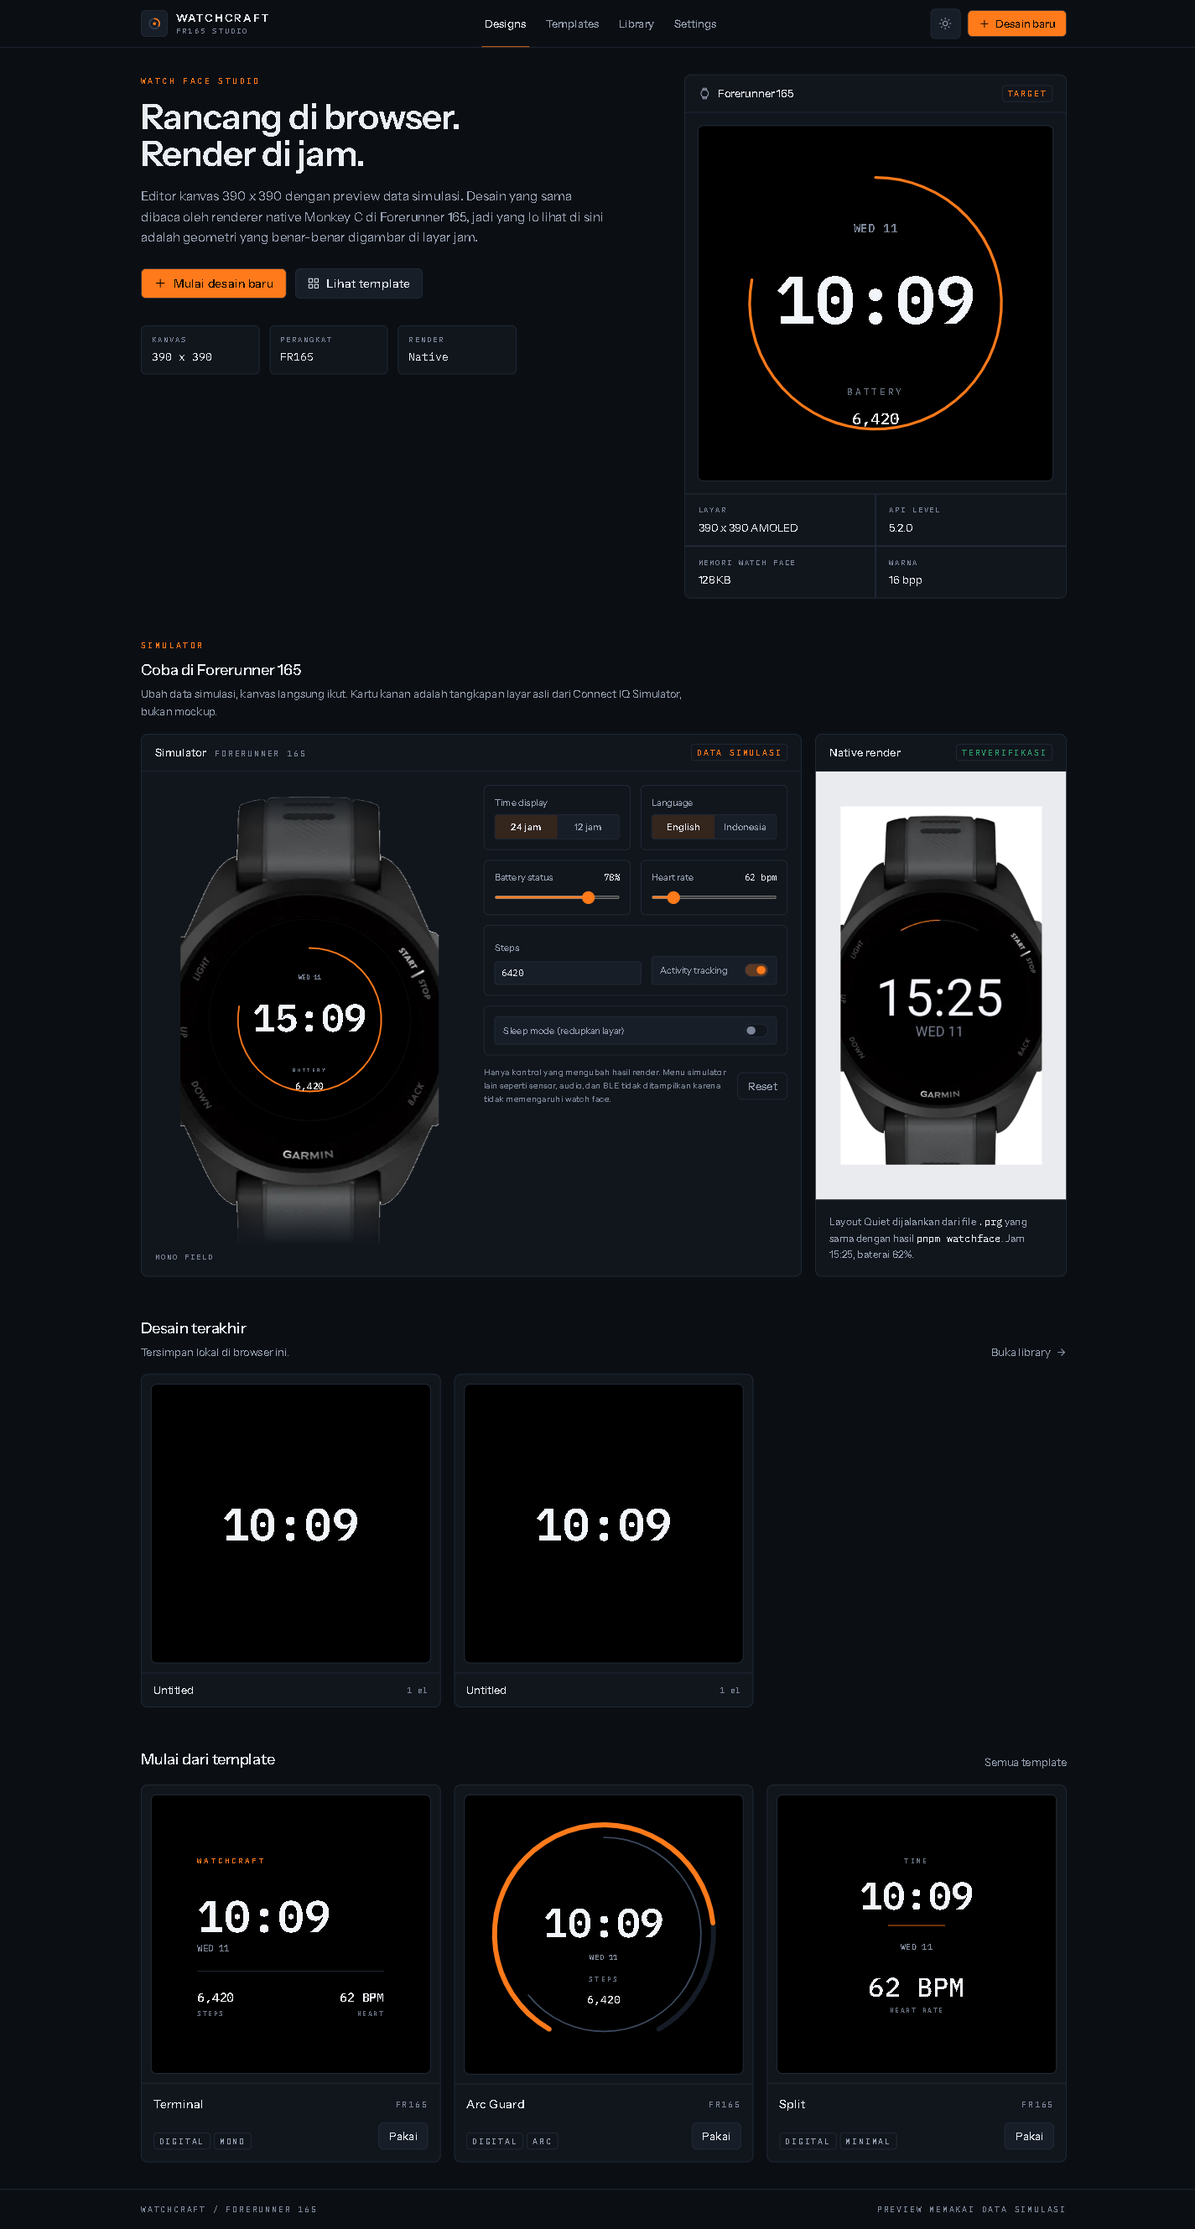
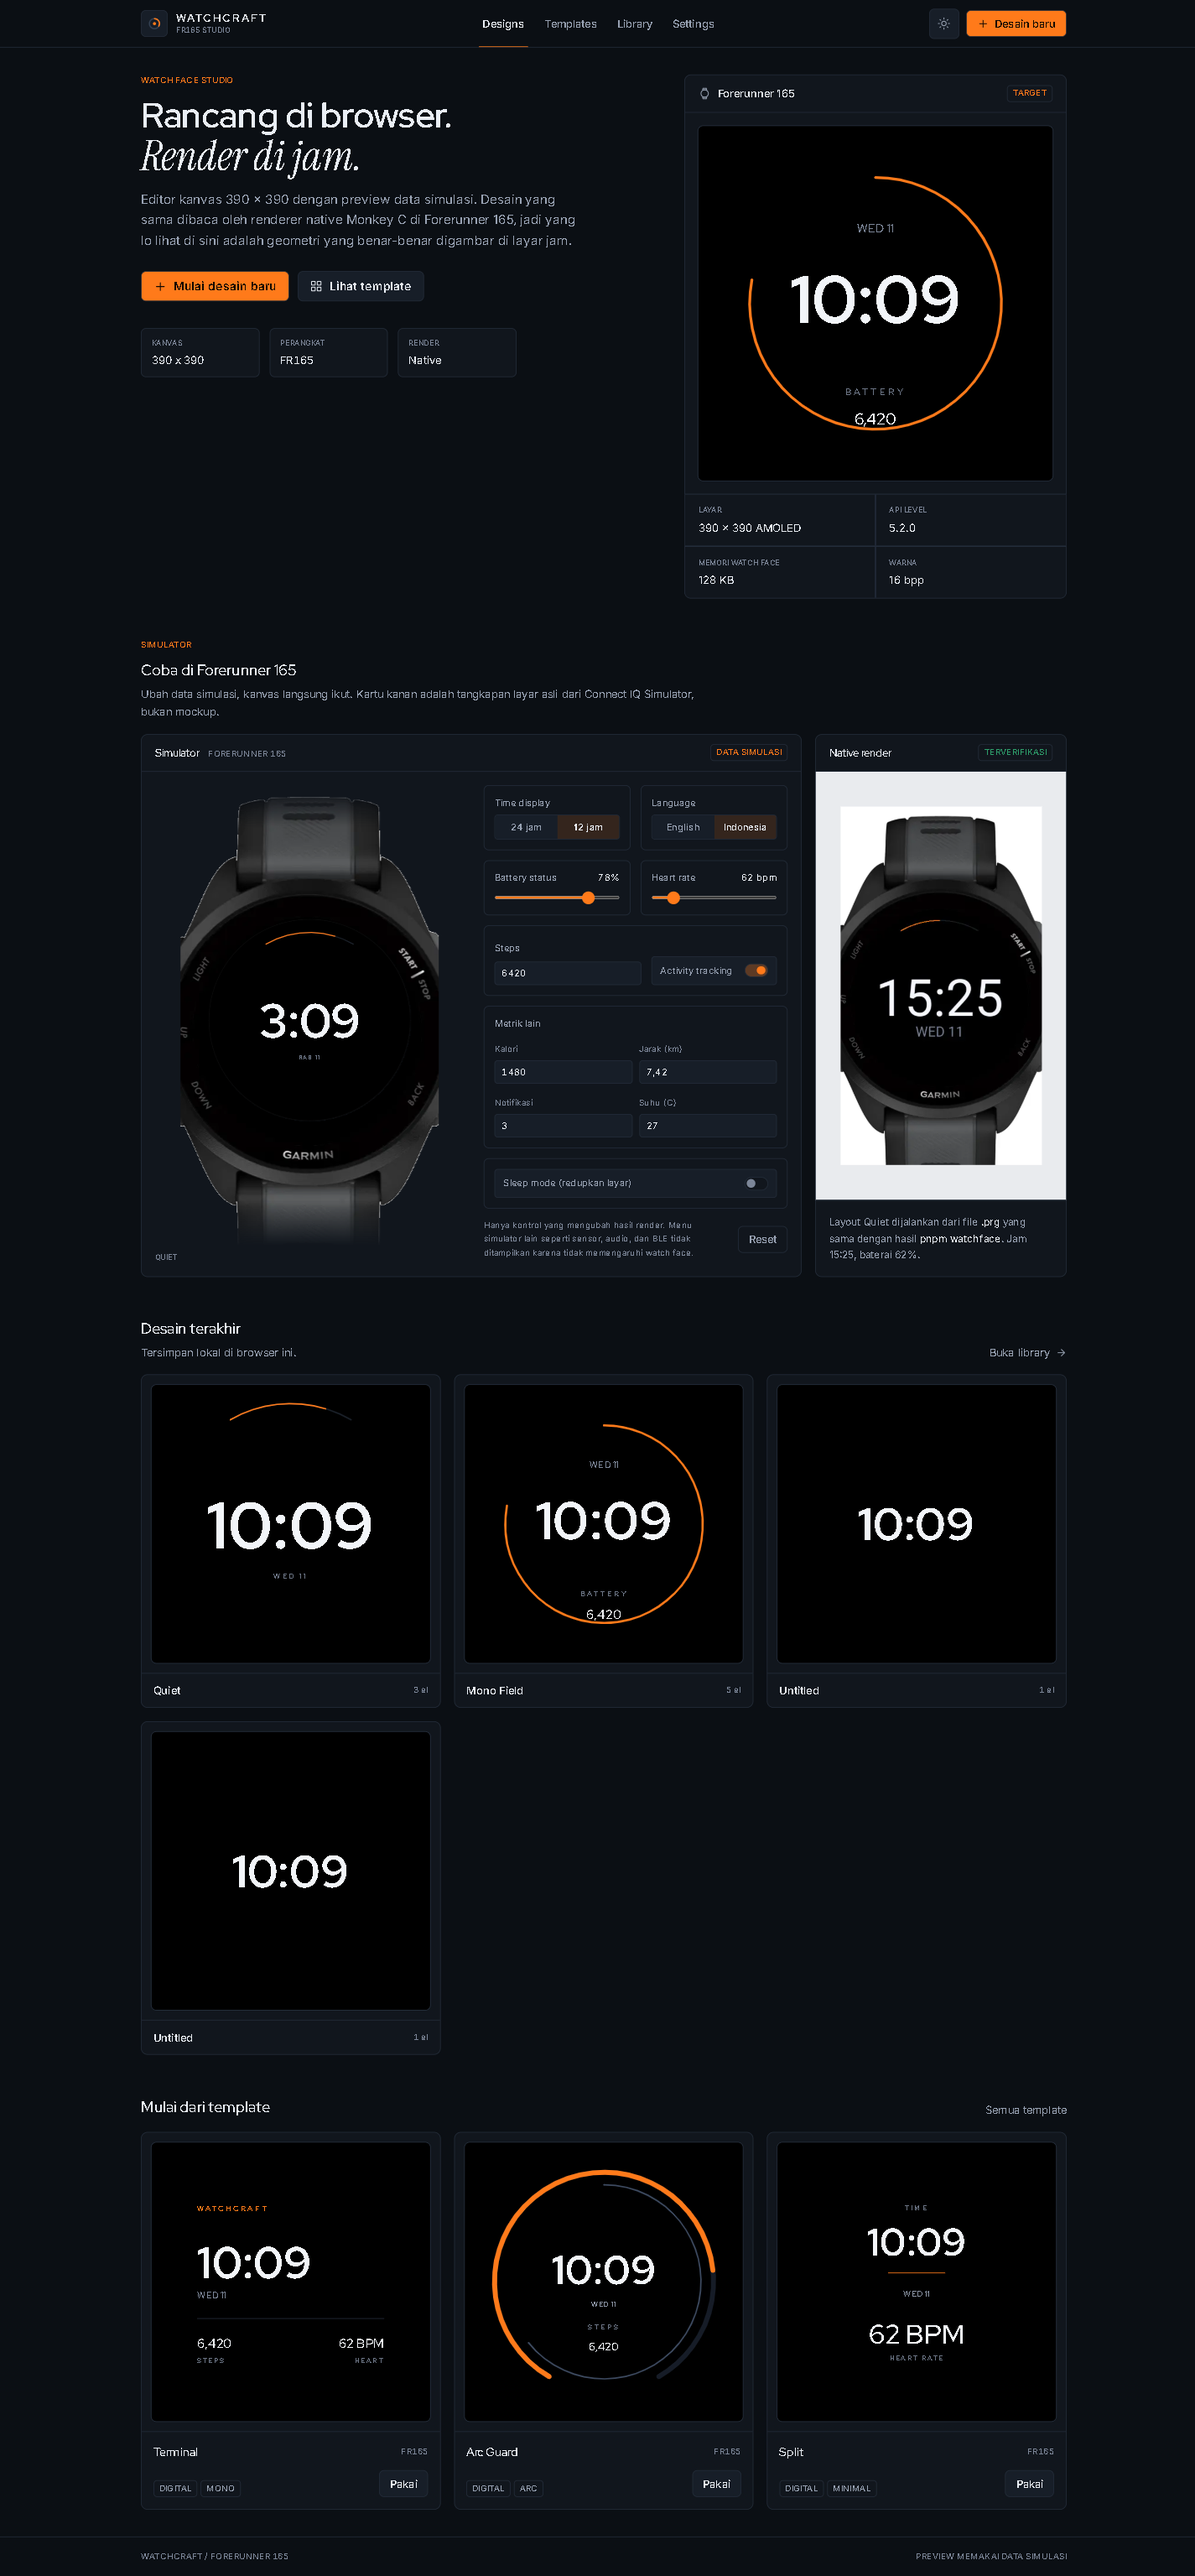
feat: switch typography to Inter, Red Hat Display and Instrument Serif

diff --git a/src/app/globals.css b/src/app/globals.css
@@ -53,8 +53,10 @@
   --color-ok: var(--ok);
   --color-warn: var(--warn);
   --color-danger: var(--danger);
-  --font-sans: var(--font-instrument-sans), ui-sans-serif, system-ui, sans-serif;
-  --font-mono: var(--font-ibm-plex-mono), ui-monospace, monospace;
+  --font-sans: var(--font-inter), ui-sans-serif, system-ui, sans-serif;
+  --font-display: var(--font-red-hat-display), ui-sans-serif, system-ui, sans-serif;
+  --font-serif: var(--font-instrument-serif), ui-serif, Georgia, serif;
+  --font-mono: var(--font-inter), ui-monospace, monospace;
 }
 
 * {
@@ -69,9 +71,16 @@ body {
 body {
   background: var(--page);
   color: var(--ink);
-  font-family: var(--font-instrument-sans), ui-sans-serif, system-ui, sans-serif;
+  font-family: var(--font-inter), ui-sans-serif, system-ui, sans-serif;
   -webkit-font-smoothing: antialiased;
   text-rendering: optimizeLegibility;
+}
+
+h1,
+h2,
+h3 {
+  font-family: var(--font-red-hat-display), ui-sans-serif, system-ui, sans-serif;
+  letter-spacing: -0.015em;
 }
 
 ::selection {
@@ -86,8 +95,9 @@ body {
 }
 
 .mono {
-  font-family: var(--font-ibm-plex-mono), ui-monospace, monospace;
+  font-family: var(--font-inter), ui-sans-serif, system-ui, sans-serif;
   font-variant-numeric: tabular-nums;
+  letter-spacing: 0.01em;
 }
 
 .workspace-dots {

diff --git a/src/app/layout.tsx b/src/app/layout.tsx
@@ -1,19 +1,27 @@
 import type { Metadata } from "next";
-import { IBM_Plex_Mono, Instrument_Sans } from "next/font/google";
+import { Instrument_Serif, Inter, Red_Hat_Display } from "next/font/google";
 
 import "./globals.css";
 
-const sans = Instrument_Sans({
+const sans = Inter({
   subsets: ["latin"],
   display: "swap",
-  variable: "--font-instrument-sans",
+  variable: "--font-inter",
 });
 
-const mono = IBM_Plex_Mono({
+const display = Red_Hat_Display({
   subsets: ["latin"],
-  weight: ["400", "500", "600"],
+  weight: ["400", "500", "600", "700"],
   display: "swap",
-  variable: "--font-ibm-plex-mono",
+  variable: "--font-red-hat-display",
+});
+
+const serif = Instrument_Serif({
+  subsets: ["latin"],
+  weight: "400",
+  style: ["normal", "italic"],
+  display: "swap",
+  variable: "--font-instrument-serif",
 });
 
 export const metadata: Metadata = {
@@ -31,7 +39,7 @@ export default function RootLayout({
     <html
       lang="id"
       data-theme="dark"
-      className={`${sans.variable} ${mono.variable}`}
+      className={`${sans.variable} ${display.variable} ${serif.variable}`}
       suppressHydrationWarning
     >
       <head>

diff --git a/src/app/page.tsx b/src/app/page.tsx
@@ -43,8 +43,11 @@ export default function DashboardPage() {
           <p className="mono text-[10px] uppercase tracking-[0.2em] text-accent">
             Watch face studio
           </p>
-          <h1 className="mt-3 max-w-[17ch] text-[34px] leading-[1.08] font-semibold tracking-tight sm:text-[42px]">
-            Rancang di browser. Render di jam.
+          <h1 className="mt-3 max-w-[17ch] text-[34px] leading-[1.02] font-semibold tracking-tight sm:text-[42px]">
+            Rancang di browser.
+            <span className="mt-1 block font-serif text-[40px] leading-[0.95] font-normal italic tracking-[-0.01em] sm:text-[50px]">
+              Render di jam.
+            </span>
           </h1>
           <p className="mt-4 max-w-[54ch] text-[15px] leading-relaxed text-muted">
             Editor kanvas 390 x 390 dengan preview data simulasi. Desain yang sama

diff --git a/src/core/svg.ts b/src/core/svg.ts
@@ -3,9 +3,9 @@ import { buildDisplayList, type DisplayCommand } from "./renderer";
 import type { Design } from "./schema";
 
 export const FONT_STACK: Record<string, string> = {
-  sans: "'Instrument Sans', ui-sans-serif, system-ui, sans-serif",
-  mono: "'IBM Plex Mono', ui-monospace, monospace",
-  digits: "'IBM Plex Mono', ui-monospace, monospace",
+  sans: "'Inter', ui-sans-serif, system-ui, sans-serif",
+  mono: "'Red Hat Display', ui-sans-serif, system-ui, sans-serif",
+  digits: "'Red Hat Display', ui-sans-serif, system-ui, sans-serif",
 };
 
 export const FONT_WEIGHT: Record<string, number> = {

diff --git a/src/components/AppShell.tsx b/src/components/AppShell.tsx
@@ -76,7 +76,7 @@ export function AppShell({ children }: { children: React.ReactNode }) {
               </svg>
             </span>
             <span className="flex flex-col leading-none">
-              <span className="text-[13px] font-semibold tracking-[0.16em]">WATCHCRAFT</span>
+              <span className="font-display text-[13px] font-bold tracking-[0.16em]">WATCHCRAFT</span>
               <span className="mono mt-1 text-[9px] uppercase tracking-[0.18em] text-faint">
                 FR165 studio
               </span>

diff --git a/docs/DESIGN-SYSTEM.md b/docs/DESIGN-SYSTEM.md
@@ -35,10 +35,13 @@ Nilai teks di kedua tema sudah dipilih agar lolos WCAG AA pada permukaan masing-
 
 | Peran | Font | Alasan |
 | --- | --- | --- |
-| UI | Instrument Sans | Grotesque teknis, tetap terbaca di chrome padat |
-| Angka dan label | IBM Plex Mono | Digit tegas, nol bergaris, bagus untuk koordinat |
+| UI dan body | Inter | Netral, rapat, terbaca di chrome padat |
+| Heading dan judul | Red Hat Display | Geometris, tegas, tetap terasa alat kerja |
+| Aksen display | Instrument Serif italic | Kontras editorial untuk satu baris besar |
 
 Dimuat lewat `next/font`, self-hosted, tanpa request runtime.
+
+Angka teknis memakai Inter dengan `font-variant-numeric: tabular-nums`, bukan font mono terpisah. Kelas `.mono` di kode adalah utility angka tabular, bukan keluarga font lain.
 
 Skala:
 
